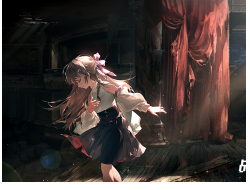
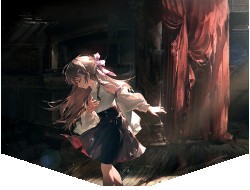
卡背：失控

Changed region(s): [[0.0, 0.0, 1.0, 1.0]]

diff --git a/src/main/java/SelenaMod/cards/OutOfControl.java b/src/main/java/SelenaMod/cards/OutOfControl.java
@@ -2,13 +2,25 @@ package SelenaMod.cards;
 
 import SelenaMod.powers.SirenPower;
 import SelenaMod.utils.ModHelper;
+import SelenaMod.utils.TextureLoader;
+import com.badlogic.gdx.graphics.Color;
+import com.badlogic.gdx.graphics.Texture;
+import com.badlogic.gdx.graphics.g2d.SpriteBatch;
+import com.evacipated.cardcrawl.modthespire.lib.SpireOverride;
+import com.evacipated.cardcrawl.modthespire.lib.SpirePatch;
+import com.evacipated.cardcrawl.modthespire.lib.SpirePrefixPatch;
+import com.evacipated.cardcrawl.modthespire.lib.SpireReturn;
+import com.megacrit.cardcrawl.cards.AbstractCard;
 import com.megacrit.cardcrawl.characters.AbstractPlayer;
+import com.megacrit.cardcrawl.core.Settings;
 import com.megacrit.cardcrawl.dungeons.AbstractDungeon;
 import com.megacrit.cardcrawl.monsters.AbstractMonster;
+import com.megacrit.cardcrawl.screens.SingleCardViewPopup;
 
 public class OutOfControl extends CustomSelenaCard {
     public static String ID = ModHelper.makeID(OutOfControl.class.getSimpleName());
-
+    private static Texture NewPaintBg = TextureLoader.getTexture(ModHelper.makeImgPath("cards", "OutOfControlBG"));
+    private static Texture NewPaintBG_BIG = TextureLoader.getTexture(ModHelper.makeImgPath("cards", "OutOfControlBG_BIG"));
     public OutOfControl() {
         super(ID, -2, CardType.STATUS, CardColor.COLORLESS, CardRarity.SPECIAL, CardTarget.NONE);
         this.isEthereal = true;
@@ -38,5 +50,129 @@ public class OutOfControl extends CustomSelenaCard {
         return false;
     }
 
+    @SpireOverride
+    public void renderCardBg(SpriteBatch sb, float x, float y) {
 
+
+        sb.setColor(Color.WHITE.cpy());
+        sb.draw(NewPaintBg, x - NewPaintBg.getWidth() / 2.0F, y - NewPaintBg.getHeight() / 2.0F,
+                NewPaintBg.getWidth() / 2.0F, NewPaintBg.getHeight() / 2.0F, NewPaintBg.getWidth(), NewPaintBg.getHeight(),
+                this.drawScale * Settings.scale, this.drawScale * Settings.scale, this.angle, 0, 0, NewPaintBg.getWidth(), NewPaintBg.getHeight(), false, false);
+//        SpireSuper.call(sb,x,y);
+
+    }
+
+    @SpireOverride
+    public void renderPortrait(SpriteBatch sb) {
+
+    }
+
+    @SpireOverride
+    public void renderType(SpriteBatch sb) {
+
+    }
+
+    @SpireOverride
+    public void renderBannerImage(SpriteBatch sb, float x, float y) {
+
+    }
+
+    @SpireOverride
+    public void renderPortraitFrame(SpriteBatch sb, float x, float y) {
+
+    }
+
+    @SpirePatch(clz = SingleCardViewPopup.class, method = "renderCardBack")
+    public static class RenderCardBackPatch {
+        @SpirePrefixPatch
+        public static SpireReturn<Void> prefix(SingleCardViewPopup __instance, SpriteBatch sb, AbstractCard ___card) {
+            if (___card instanceof OutOfControl) {
+                RenderCardBackInSingleCardView(sb, ___card);
+                return SpireReturn.Return();
+            }
+            return SpireReturn.Continue();
+        }
+    }
+
+    public static void RenderCardBackInSingleCardView(SpriteBatch sb, AbstractCard ___card) {
+        sb.setColor(Color.WHITE.cpy());
+        sb.draw(NewPaintBG_BIG, Settings.WIDTH / 2.0F - NewPaintBG_BIG.getWidth() / 2.0F,
+                Settings.HEIGHT / 2.0F - NewPaintBG_BIG.getHeight() / 2.0F,
+                NewPaintBG_BIG.getWidth() / 2.0F, NewPaintBG_BIG.getHeight() / 2.0F,
+                NewPaintBG_BIG.getWidth(), NewPaintBG_BIG.getHeight(),
+                Settings.scale,
+                Settings.scale, 0.0F, 0, 0, NewPaintBG_BIG.getWidth(), NewPaintBG_BIG.getHeight(),
+                false, false);
+
+//        sb.draw(REPLACE_IMG, drawX, drawY + 72.0F,
+//                125.0F, 23.0F,
+//                250.0F, 190.0F,
+//                this.drawScale * Settings.scale, this.drawScale * Settings.scale,
+//                this.angle, 0, 0, 250, 190,
+//                false, false);
+    }
+
+    @SpirePatch(clz = SingleCardViewPopup.class, method = "renderPortrait")
+    public static class RenderPortraitPatch {
+        @SpirePrefixPatch
+        public static SpireReturn<Void> prefix(SingleCardViewPopup __instance, SpriteBatch sb, AbstractCard ___card) {
+            if (___card instanceof OutOfControl) {
+                RenderPortraitInSingleCardView(sb, ___card);
+                return SpireReturn.Return();
+            }
+            return SpireReturn.Continue();
+        }
+
+        private static void RenderPortraitInSingleCardView(SpriteBatch sb, AbstractCard card) {
+
+        }
+    }
+
+    @SpirePatch(clz = SingleCardViewPopup.class, method = "renderCardBanner")
+    public static class RenderCardBannerPatch {
+        @SpirePrefixPatch
+        public static SpireReturn<Void> prefix(SingleCardViewPopup __instance, SpriteBatch sb, AbstractCard ___card) {
+            if (___card instanceof OutOfControl) {
+                RenderCardBannerInSingleCardView();
+                return SpireReturn.Return();
+            }
+            return SpireReturn.Continue();
+        }
+
+        private static void RenderCardBannerInSingleCardView() {
+
+        }
+    }
+
+    @SpirePatch(clz = SingleCardViewPopup.class, method = "renderCardTypeText")
+    public static class RenderCardTypeTextPatch {
+        @SpirePrefixPatch
+        public static SpireReturn<Void> prefix(SingleCardViewPopup __instance, SpriteBatch sb, AbstractCard ___card) {
+            if (___card instanceof OutOfControl) {
+                RenderCardTypeTextInSingleCardView();
+                return SpireReturn.Return();
+            }
+            return SpireReturn.Continue();
+        }
+
+        private static void RenderCardTypeTextInSingleCardView() {
+
+        }
+    }
+
+    @SpirePatch(clz = SingleCardViewPopup.class, method = "renderFrame")
+    public static class RenderFramePatch {
+        @SpirePrefixPatch
+        public static SpireReturn<Void> prefix(SingleCardViewPopup __instance, SpriteBatch sb, AbstractCard ___card) {
+            if (___card instanceof OutOfControl) {
+                RenderFrameInSingleCardView();
+                return SpireReturn.Return();
+            }
+            return SpireReturn.Continue();
+        }
+
+        private static void RenderFrameInSingleCardView() {
+
+        }
+    }
 }
